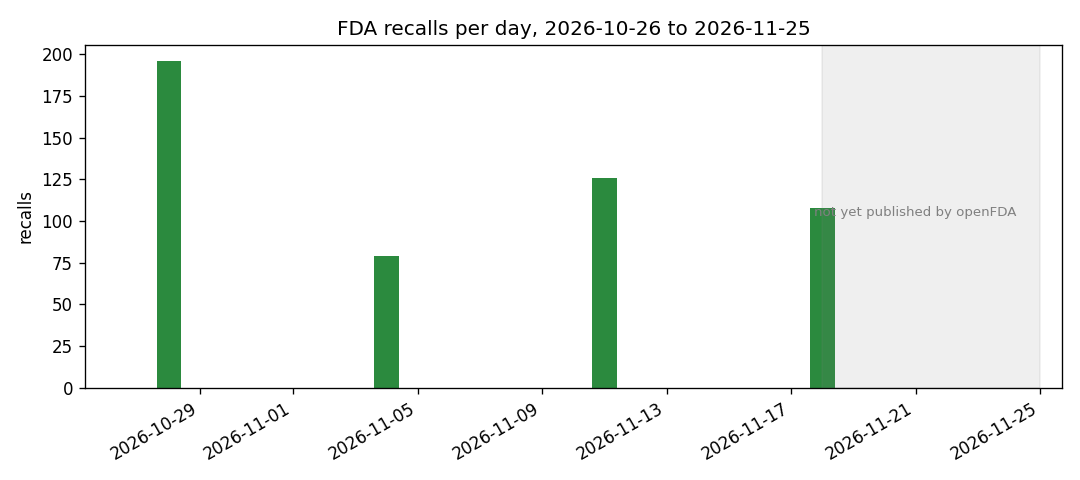
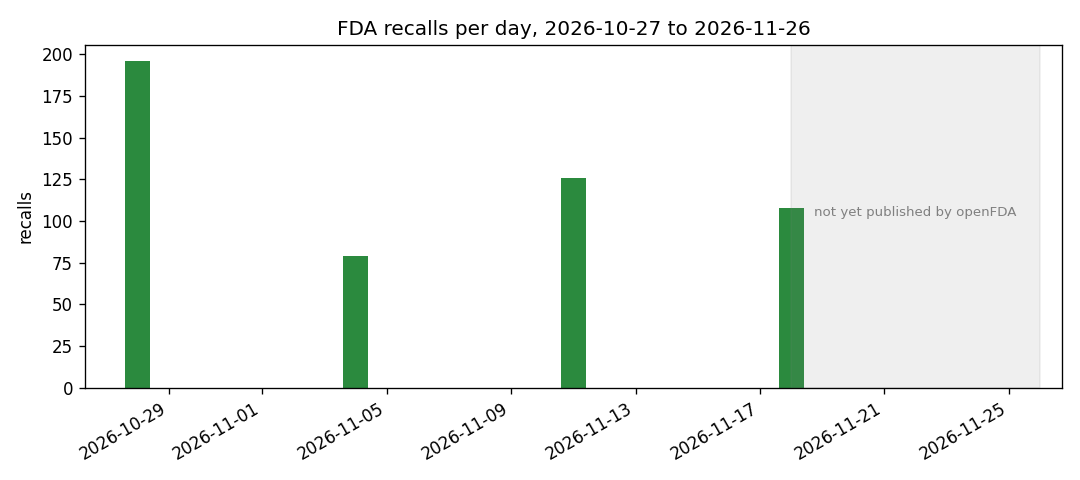
Add firm recurrence across report months; refresh data

diff --git a/src/recallradar/report.py b/src/recallradar/report.py
@@ -56,7 +56,8 @@ def render_markdown(summary: dict, spotlight: list[dict],
                     date_gaps: dict | None = None,
                     lag_months: list[dict] | None = None,
                     archive_months: list[dict] | None = None,
-                    status_classes: list[dict] | None = None) -> str:
+                    status_classes: list[dict] | None = None,
+                    recurrence: dict | None = None) -> str:
     generated_at = generated_at or dt.datetime.now(dt.timezone.utc)
     if endpoint_updated:
         parts = ", ".join(f"{ep} {d}" for ep, d in sorted(endpoint_updated.items()))
@@ -129,6 +130,12 @@ def render_markdown(summary: dict, spotlight: list[dict],
                   "| Classification | Recalls | Ongoing | Ongoing share |", "| --- | ---: | ---: | ---: |"]
         for c in status_classes:
             lines.append(f"| {c['classification']} | {c['recalls']} | {c['ongoing']} | {c['ongoing_share']:.1%} |")
+    if recurrence and recurrence["top"]:
+        lines += ["", f"Firms recurring across report months in the archive: {recurrence['repeat_firms']} of {recurrence['firms']} firms "
+                  "appear in two or more report months (exact name match after trimming, archive period only, so a lower bound):", "",
+                  "| Firm | Report months | Recalls |", "| --- | ---: | ---: |"]
+        for r in recurrence["top"]:
+            lines.append(f"| {r['firm']} | {r['months']} | {r['recalls']} |")
     if archive_months:
         lines += ["", "Archive coverage by report month (whole archive; early months are partial because "
                   "the archive only holds recalls fetched since this project started):", "",

diff --git a/src/recallradar/analyze.py b/src/recallradar/analyze.py
@@ -547,3 +547,24 @@ def status_by_classification(records: list[dict]) -> list[dict]:
     order = {"Class I": 0, "Class II": 1, "Class III": 2}
     return [{"classification": c, "recalls": n, "ongoing": o, "ongoing_share": round(o / n, 4)}
             for c, (n, o) in sorted(tally.items(), key=lambda kv: (order.get(kv[0], 3), kv[0]))]
+
+
+def firm_month_recurrence(history: list[dict], n: int = 5) -> dict:
+    """Firms appearing in the archive in two or more distinct report months.
+    Returns how many firms recalled at all, how many recurred, and the top n
+    recurring firms by months then recalls. Firm names are matched after
+    trimming and upper-casing only (no fuzzy matching), and the archive only
+    spans the period since this project started, so recurrence is a lower bound."""
+    firms: dict[str, dict] = {}
+    for rec in history:
+        name = (rec.get("recalling_firm") or "").strip().upper()
+        month = str(rec.get("report_date") or "")[:6]
+        if not name or len(month) != 6 or not month.isdigit():
+            continue
+        f = firms.setdefault(name, {"recalls": 0, "months": set()})
+        f["recalls"] += 1
+        f["months"].add(month)
+    repeat = [(k, v) for k, v in firms.items() if len(v["months"]) >= 2]
+    repeat.sort(key=lambda kv: (-len(kv[1]["months"]), -kv[1]["recalls"], kv[0]))
+    return {"firms": len(firms), "repeat_firms": len(repeat),
+            "top": [{"firm": k, "months": len(v["months"]), "recalls": v["recalls"]} for k, v in repeat[:n]]}

diff --git a/tests/test_analyze.py b/tests/test_analyze.py
@@ -626,3 +626,16 @@ def test_status_by_classification_order_unknown_and_render():
     assert analyze.status_by_classification([]) == []
     md = report.render_markdown(analyze.summarize(recs), [], dt.date(2026, 11, 1), dt.date(2026, 11, 18), status_classes=out)
     assert "| Class I | 3 | 2 | 66.7% |" in md
+
+
+def test_firm_month_recurrence_distinct_months_and_render():
+    from recallradar import analyze, report
+    h = [{"recalling_firm": " acme ", "report_date": "20260905"}, {"recalling_firm": "ACME", "report_date": "20260906"},
+         {"recalling_firm": "Acme", "report_date": "20261010"}, {"recalling_firm": "Beta", "report_date": "20261010"},
+         {"recalling_firm": "Beta", "report_date": "20261011"}, {"recalling_firm": "", "report_date": "20261011"},
+         {"recalling_firm": "Gamma", "report_date": "bad"}]
+    out = analyze.firm_month_recurrence(h)
+    assert out == {"firms": 2, "repeat_firms": 1, "top": [{"firm": "ACME", "months": 2, "recalls": 3}]}
+    assert analyze.firm_month_recurrence([]) == {"firms": 0, "repeat_firms": 0, "top": []}
+    md = report.render_markdown(analyze.summarize(h[:3]), [], dt.date(2026, 11, 1), dt.date(2026, 11, 18), recurrence=out)
+    assert "| ACME | 2 | 3 |" in md and "lower bound" in md

diff --git a/scripts/daily_update.py b/scripts/daily_update.py
@@ -114,6 +114,7 @@ def main() -> None:
                                date_gaps=analyze.report_date_gaps(records),
                                lag_months=analyze.lag_by_report_month(records),
                                archive_months=analyze.archive_by_report_month(list(history.values())),
+                               recurrence=analyze.firm_month_recurrence(list(history.values())),
                                status_classes=analyze.status_by_classification(records)),
         encoding="utf-8",
     )

diff --git a/reports/daily_report.md b/reports/daily_report.md
@@ -1,8 +1,10 @@
 # FDA Recall Radar - daily report
 
-Window: 2026-10-26 to 2026-11-25 (by report date). openFDA last_updated by endpoint: device 2026-11-18, drug 2026-11-18, food 2026-11-18. Generated 2026-11-25 20:04 UTC.
+Window: 2026-10-27 to 2026-11-26 (by report date). openFDA last_updated by endpoint: device 2026-11-18, drug 2026-11-18, food 2026-11-18. Generated 2026-11-26 12:05 UTC.
 
 **509 recalls** across 4 active days.
+
+> **Stale upstream data:** openFDA has not published for over 7 days (device 8 days, drug 8 days, food 8 days). Recent days may be missing here until it does.
 
 ## By severity
 
@@ -73,6 +75,16 @@ Recall status by classification (current window; Ongoing means FDA has not yet t
 | Class II | 401 | 374 | 93.3% |
 | Class III | 37 | 7 | 18.9% |
 | Not Yet Classified | 2 | 2 | 100.0% |
+
+Firms recurring across report months in the archive: 12 of 176 firms appear in two or more report months (exact name match after trimming, archive period only, so a lower bound):
+
+| Firm | Report months | Recalls |
+| --- | ---: | ---: |
+| MEDLINE INDUSTRIES, LP | 2 | 42 |
+| BAXTER HEALTHCARE CORPORATION | 2 | 8 |
+| AVID MEDICAL, INC. | 2 | 4 |
+| HIKMA PHARMACEUTICALS USA INC. | 2 | 3 |
+| AMERICAN HEALTH PACKAGING | 2 | 2 |
 
 Archive coverage by report month (whole archive; early months are partial because the archive only holds recalls fetched since this project started):
 
@@ -183,10 +195,10 @@ Days since initiation for recalls still marked Ongoing.
 
 | Class | Open | Median age (days) | Oldest (days) | Open > 90 days |
 | --- | ---: | ---: | ---: | ---: |
-| Class I | 61 | 62 | 273 | 5 |
-| Class II | 374 | 62 | 1720 | 27 |
-| Class III | 7 | 48 | 55 | 0 |
-| Not Yet Classified | 2 | 142 | 201 | 1 |
+| Class I | 61 | 63 | 274 | 5 |
+| Class II | 374 | 63 | 1721 | 27 |
+| Class III | 7 | 49 | 56 | 0 |
+| Not Yet Classified | 2 | 143 | 202 | 1 |
 
 ## Reason themes by month
 
@@ -224,15 +236,15 @@ Longest-open recalls still marked Ongoing, by days since initiation.
 
 | Recall | Firm | Class | Initiated | Age (days) |
 | --- | --- | --- | --- | ---: |
-| Z-0428-2027 | Philips Ultrasound, LLC | Class II | 2022-03-11 | 1720 |
-| Z-0321-2027 | Illumina, Inc. | Class II | 2024-05-08 | 931 |
-| Z-0324-2027 | Illumina, Inc. | Class II | 2024-05-08 | 931 |
-| Z-0323-2027 | Illumina, Inc. | Class II | 2024-05-08 | 931 |
-| Z-0322-2027 | Illumina, Inc. | Class II | 2024-05-08 | 931 |
+| Z-0428-2027 | Philips Ultrasound, LLC | Class II | 2022-03-11 | 1721 |
+| Z-0321-2027 | Illumina, Inc. | Class II | 2024-05-08 | 932 |
+| Z-0324-2027 | Illumina, Inc. | Class II | 2024-05-08 | 932 |
+| Z-0323-2027 | Illumina, Inc. | Class II | 2024-05-08 | 932 |
+| Z-0322-2027 | Illumina, Inc. | Class II | 2024-05-08 | 932 |
 
 ## Source data notes
 
-Scope: the 509 recalls with a report date in the rolling window 2026-10-26 to 2026-11-25, not the whole archive (577 recalls keyed by recall_number, which keeps recalls after they leave the window); 2 of the window recalls have no recall_number and are not in the archive. Of the 509: 0 lack an initiation date, 0 have an unparseable date, 0 are reported before their initiation date, 0 lack a classification. Lag and age sections skip those records.
+Scope: the 509 recalls with a report date in the rolling window 2026-10-27 to 2026-11-26, not the whole archive (577 recalls keyed by recall_number, which keeps recalls after they leave the window); 2 of the window recalls have no recall_number and are not in the archive. Of the 509: 0 lack an initiation date, 0 have an unparseable date, 0 are reported before their initiation date, 0 lack a classification. Lag and age sections skip those records.
 
 _Window total includes 2 recalls with no recall_number; they are reported here but cannot be keyed into the archive._
 
